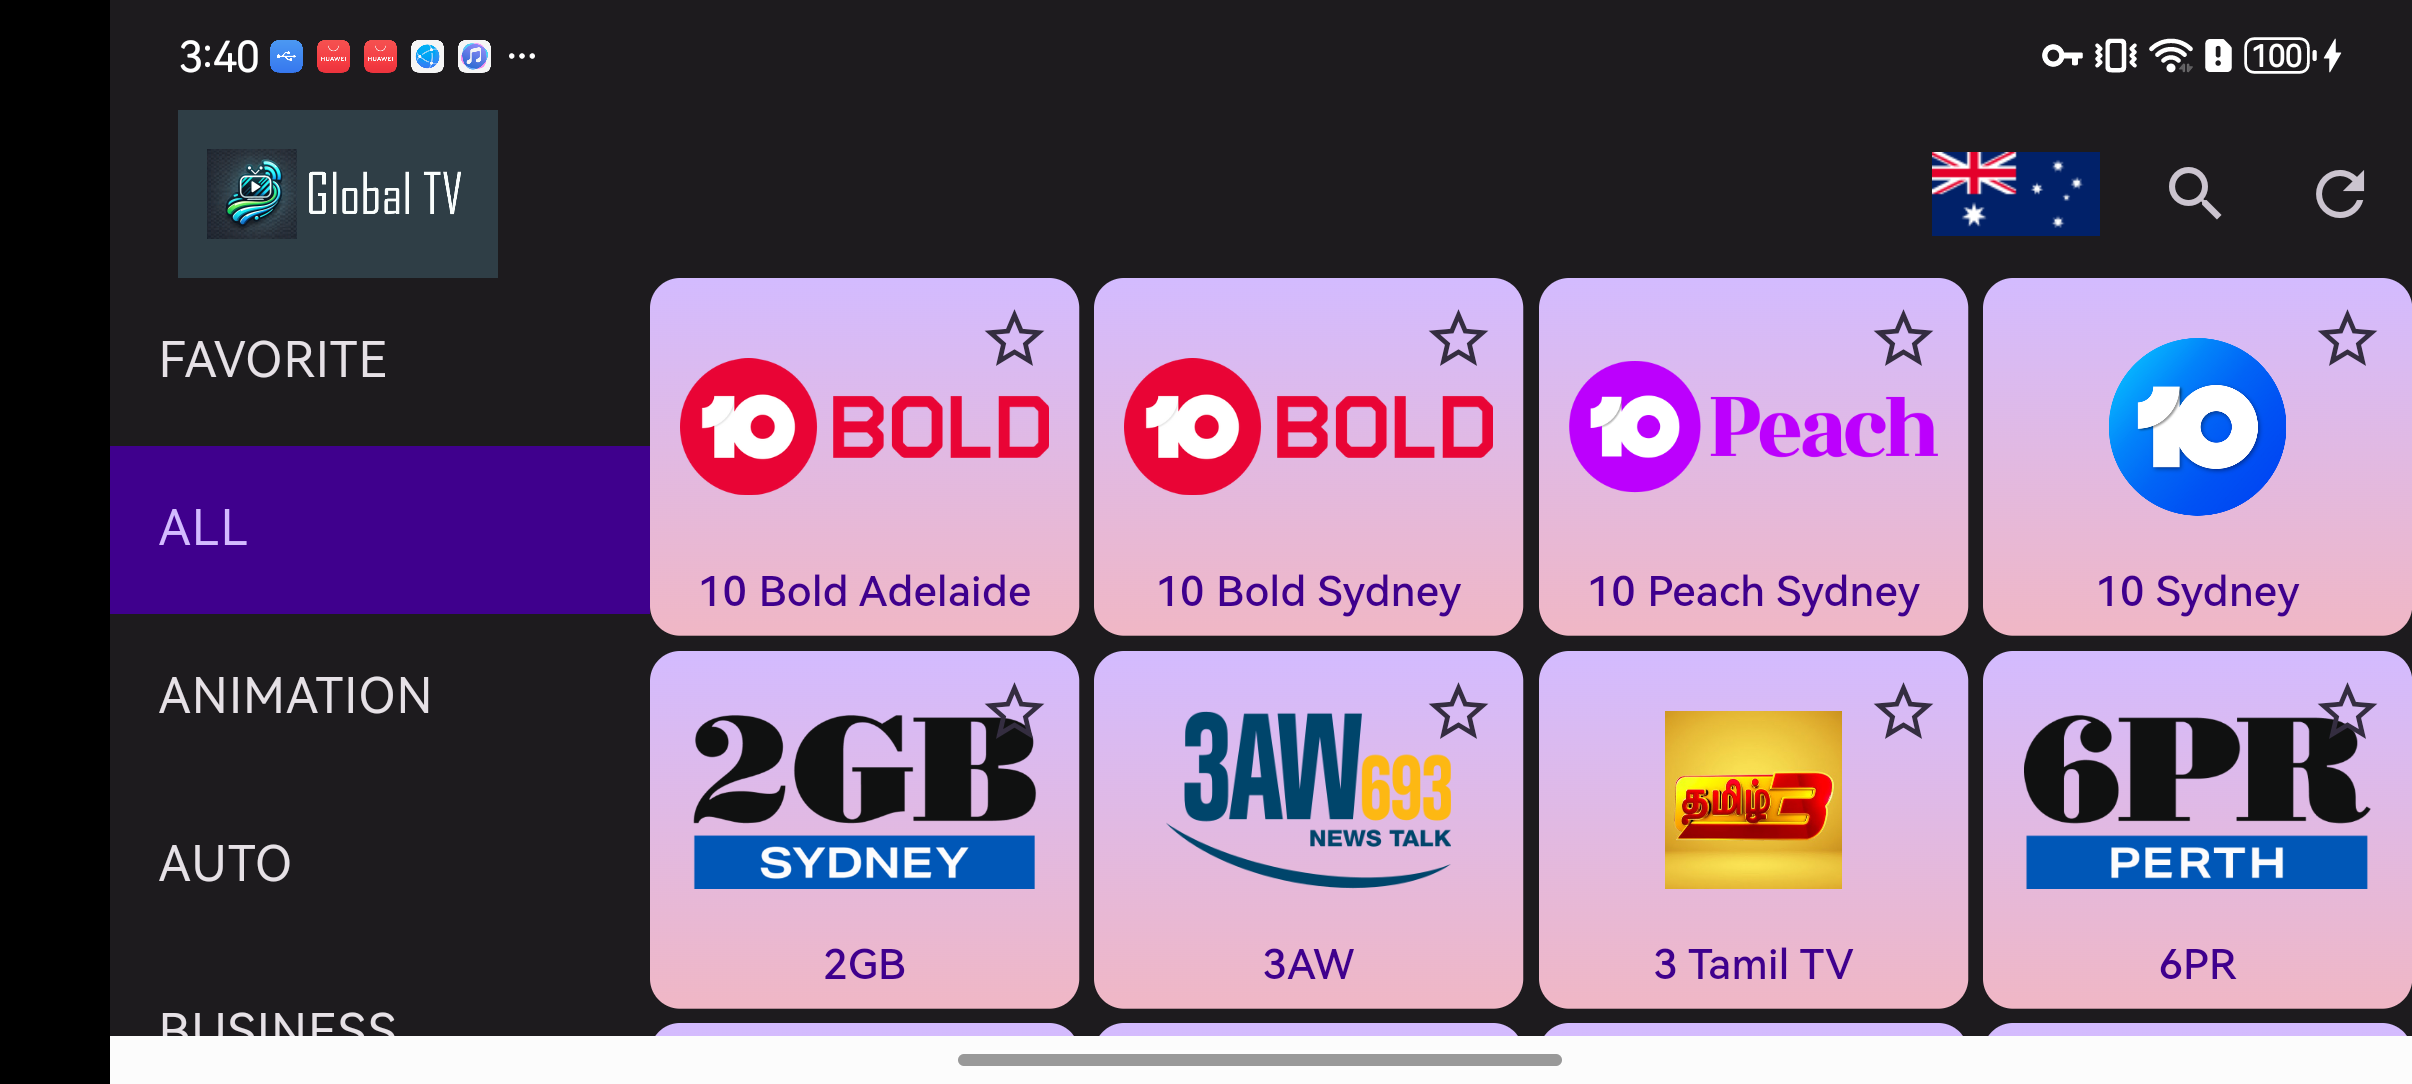
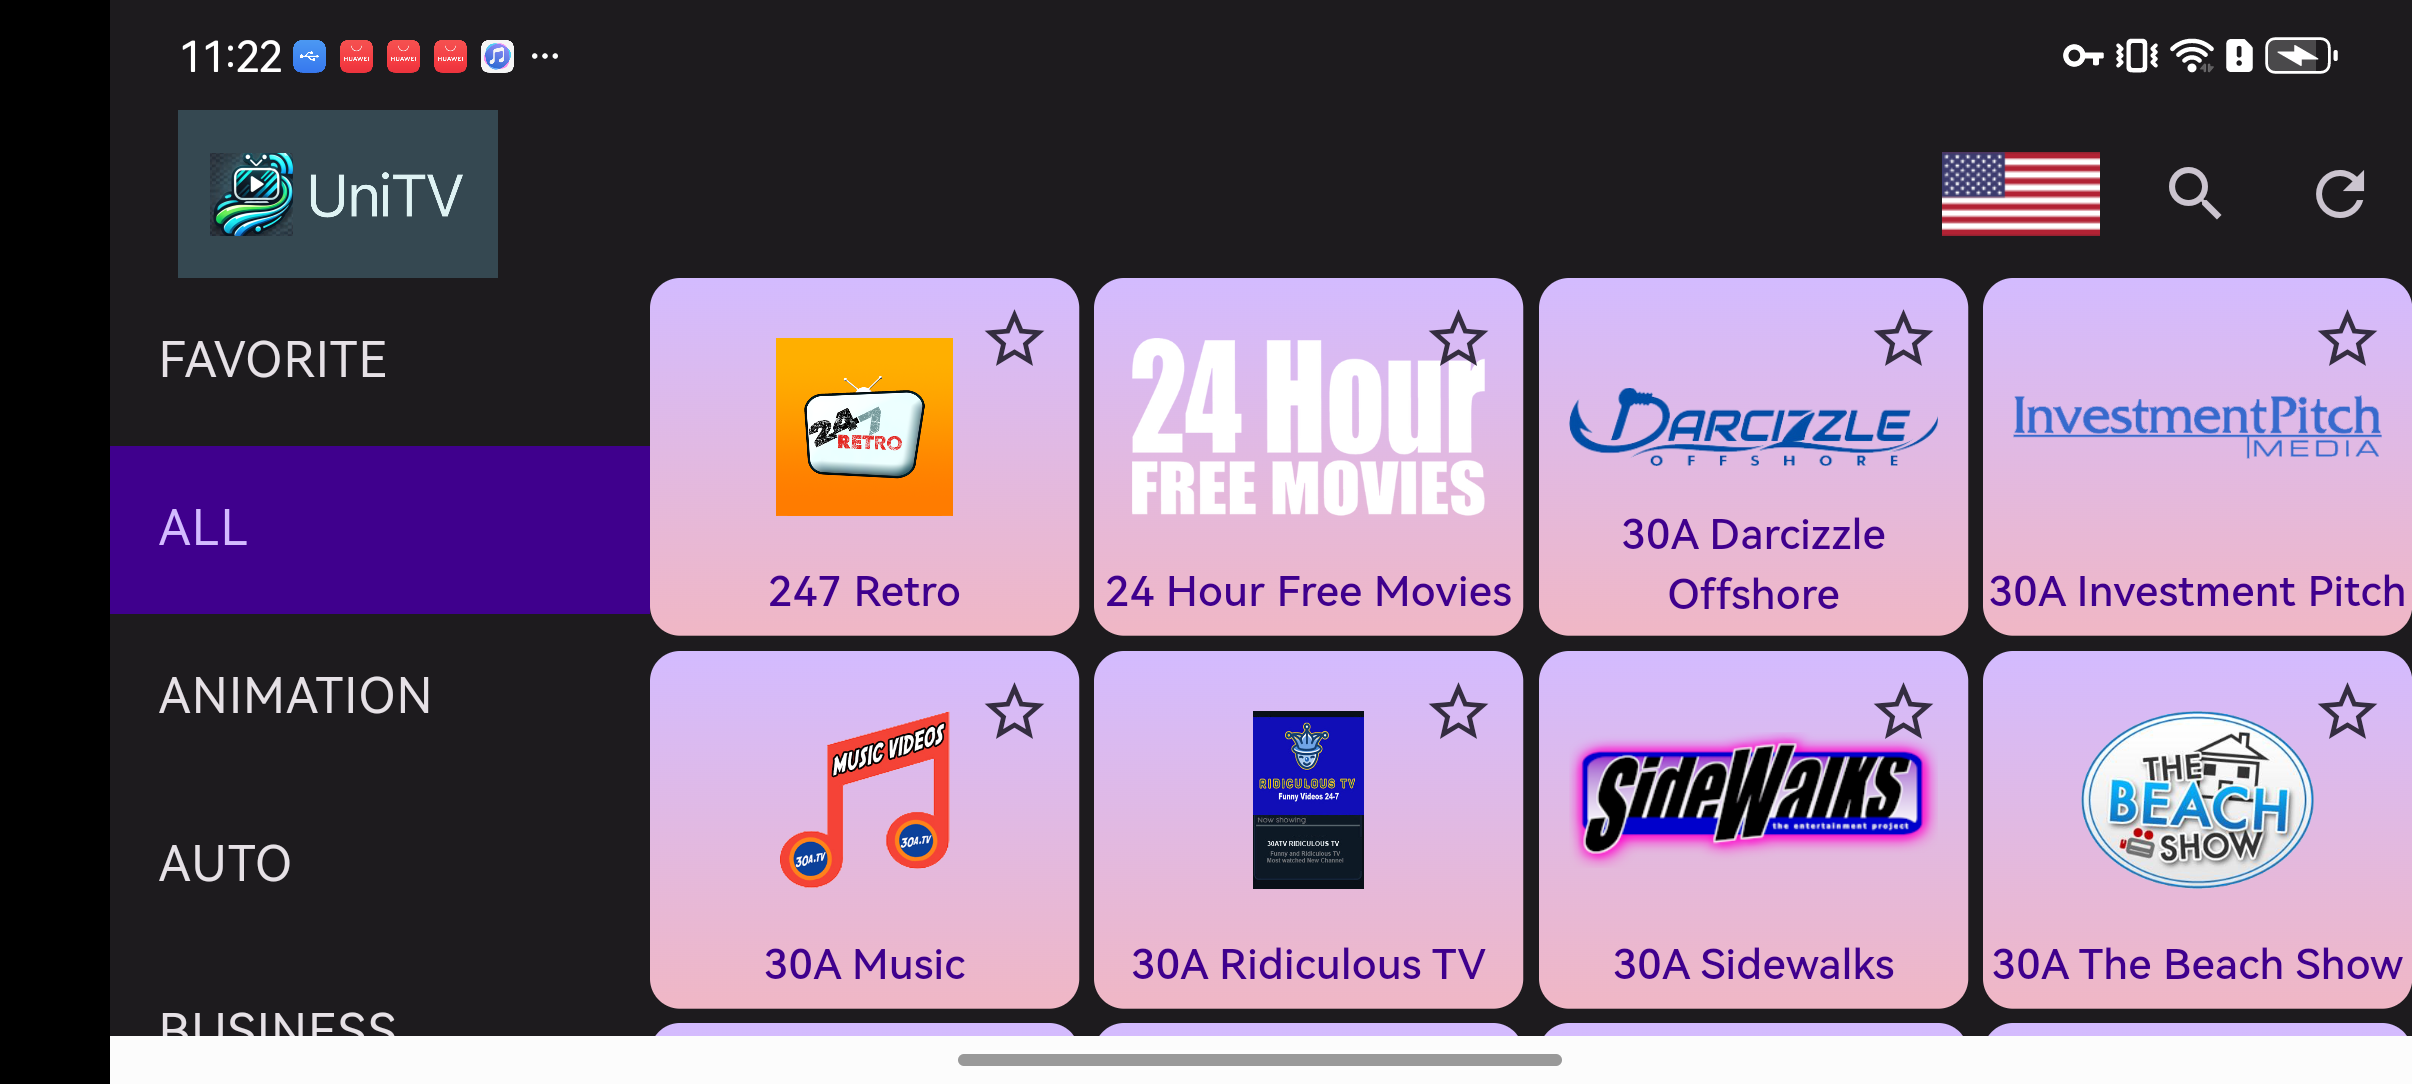
Rename to UniTV

diff --git a/privacy_policy.html b/privacy_policy.html
@@ -1,0 +1,23 @@
+<!DOCTYPE html>
+<html>
+<head>
+    <meta charset='utf-8'>
+    <meta name='viewport' content='width=device-width'>
+    <title>Privacy Policy</title>
+    <style> body { font-family: 'Helvetica Neue', Helvetica, Arial, sans-serif; padding:1em; } </style>
+</head>
+<body>
+<strong>Privacy Policy</strong><p>This privacy policy applies to the UniTV app (hereby referred to as "Application") for mobile devices that was created by  (hereby referred to as "Service Provider") as a Free service. This service is intended for use "AS IS".</p><br><strong>What information does the Application obtain and how is it used?</strong><p>The Application does not obtain any information when you download and use it. Registration is not required to use the Application.</p><br><strong>Does the Application collect precise real time location information of the device?</strong><p>This Application does not collect precise information about the location of your mobile device.</p><br><strong>Do third parties see and/or have access to information obtained by the Application?</strong><p>Since the Application does not collect any information, no data is shared with third parties.</p><br><strong>What are my opt-out rights?</strong><p>You can stop all collection of information by the Application easily by uninstalling it. You may use the standard uninstall processes as may be available as part of your mobile device or via the mobile application marketplace or network.</p><br><strong>Children</strong><p>The Application is not used to knowingly solicit data from or market to children under the age of 13.</p><br><p>The Service Provider does not knowingly collect personally
+    identifiable information from children. The Service Provider
+    encourages all children to never submit any personally
+    identifiable information through the Application and/or Services.
+    The Service Provider encourage parents and legal guardians to monitor
+    their children's Internet usage and to help enforce this Policy by instructing
+    their children never to provide personally identifiable information through the Application and/or Services without their permission. If you have reason to believe that a child
+    has provided personally identifiable information to the Service Provider through the Application and/or Services,
+    please contact the Service Provider (guoziwei93@gmail.com) so that they will be able to take the necessary actions.
+    You must also be at least 16 years of age to consent to the processing
+    of your personally identifiable information in your country (in some countries we may allow your parent
+    or guardian to do so on your behalf).</p><br><strong>Security</strong><p>The Service Provider is concerned about safeguarding the confidentiality of your information. However, since the Application does not collect any information, there is no risk of your data being accessed by unauthorized individuals.</p><br><strong>Changes</strong><p>This Privacy Policy may be updated from time to time for any reason. The Service Provider will notify you of any changes to their Privacy Policy by updating this page with the new Privacy Policy. You are advised to consult this Privacy Policy regularly for any changes, as continued use is deemed approval of all changes.</p><br><p>This privacy policy is effective as of 2024-11-27</p><br><strong>Your Consent</strong><p>By using the Application, you are consenting to the processing of your information as set forth in this Privacy Policy now and as amended by the Service Provider.</p><br><strong>Contact Us</strong><p>If you have any questions regarding privacy while using the Application, or have questions about the practices, please contact the Service Provider via email at guoziwei93@gmail.com.</p><hr><p>This privacy policy page was generated by <a href="https://app-privacy-policy-generator.nisrulz.com/" target="_blank" rel="noopener noreferrer">App Privacy Policy Generator</a></p>
+</body>
+</html>
